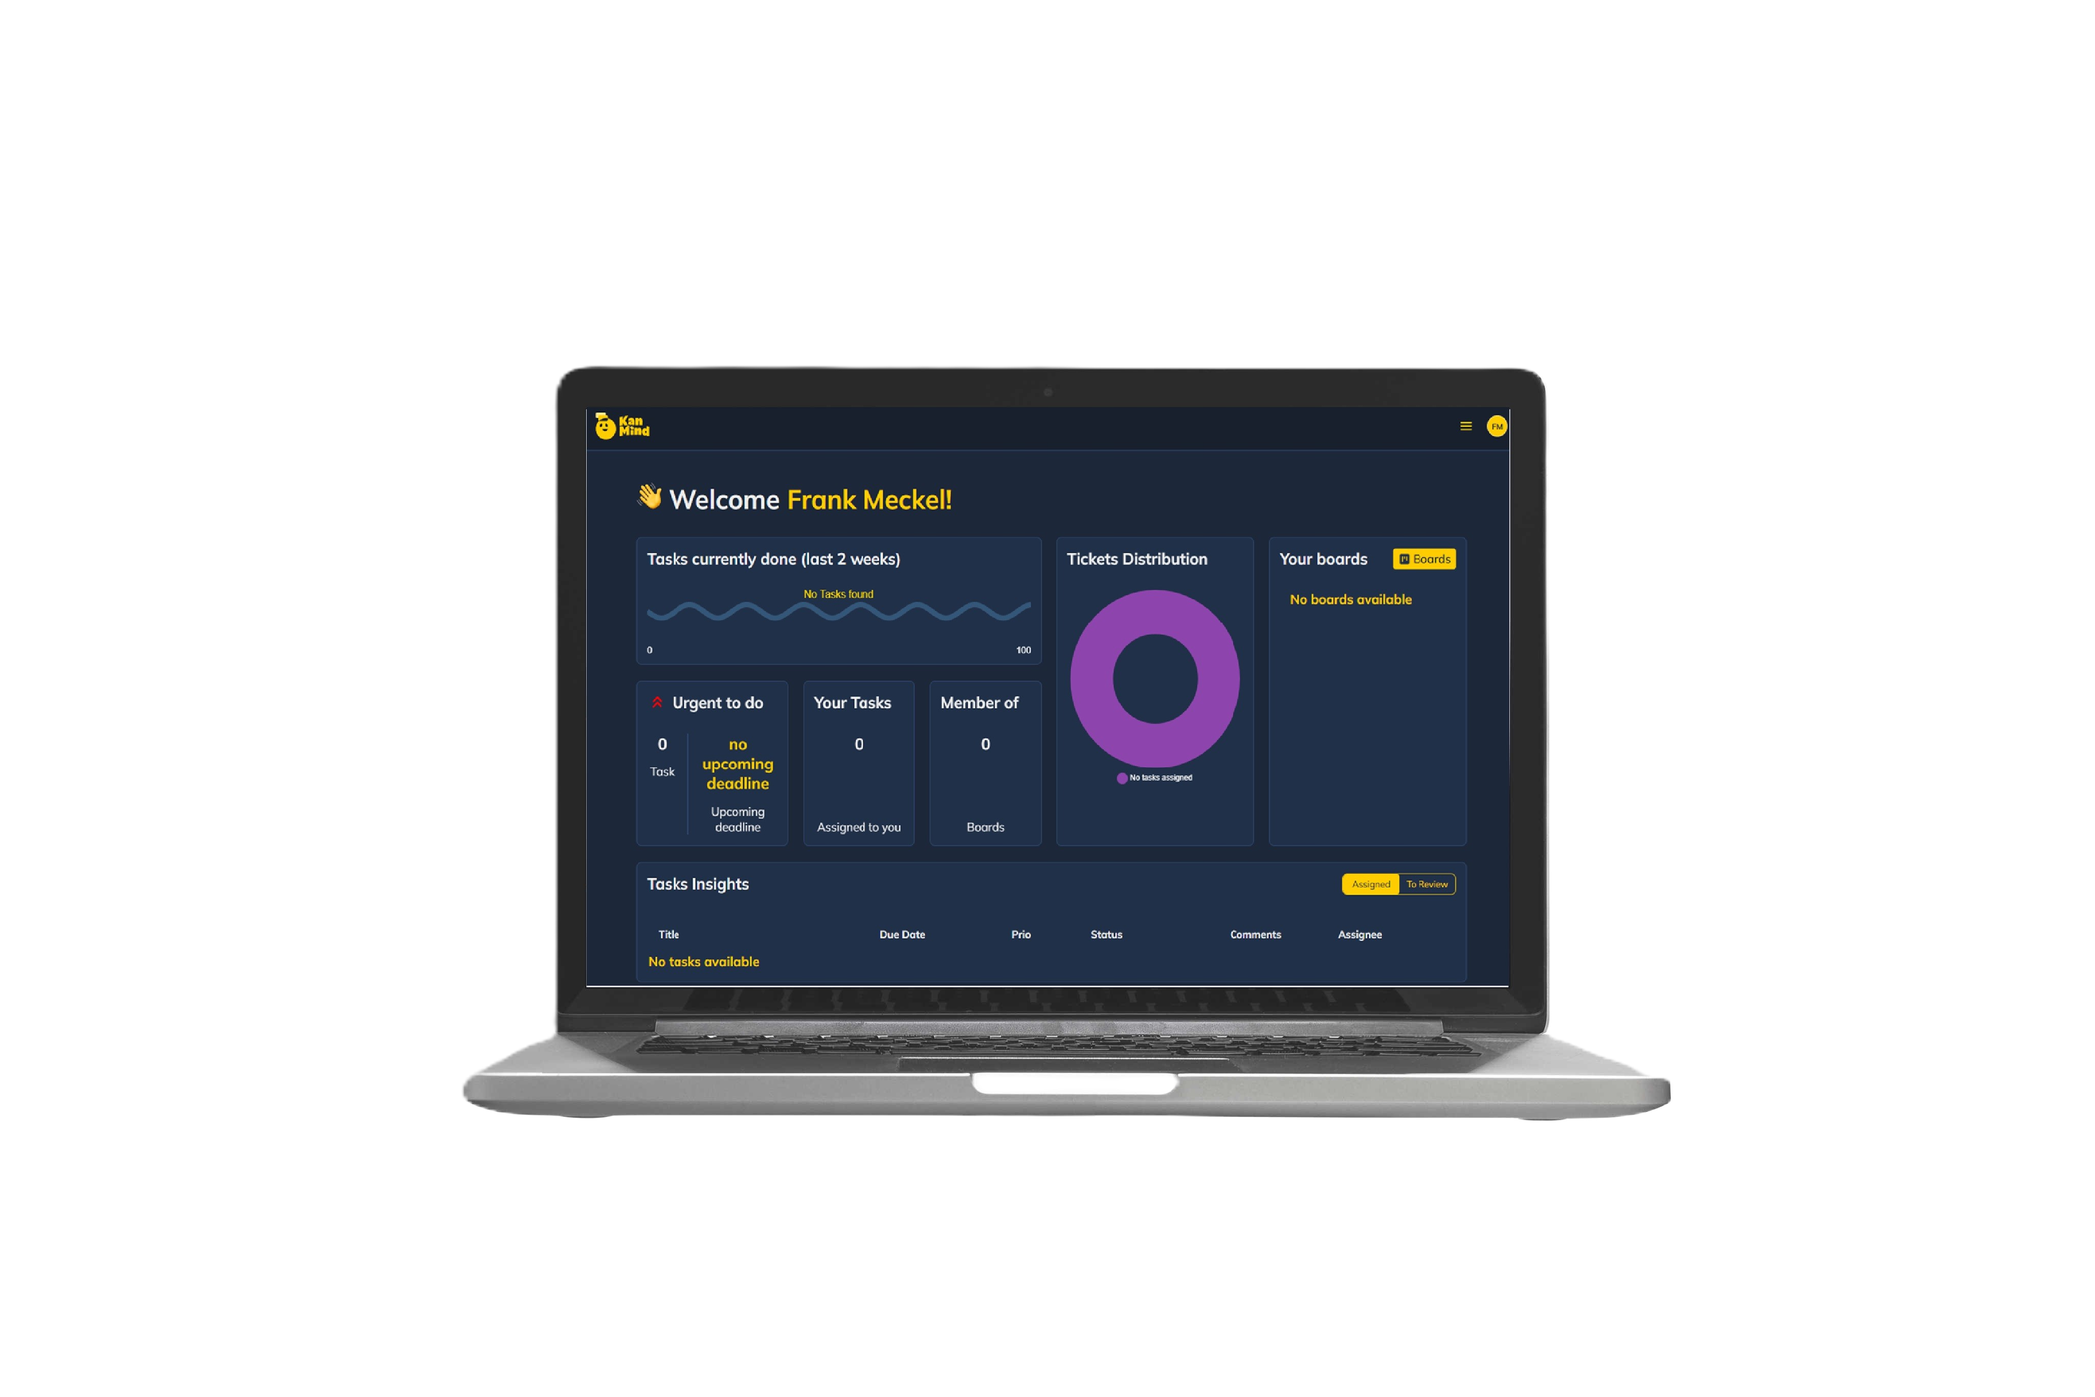
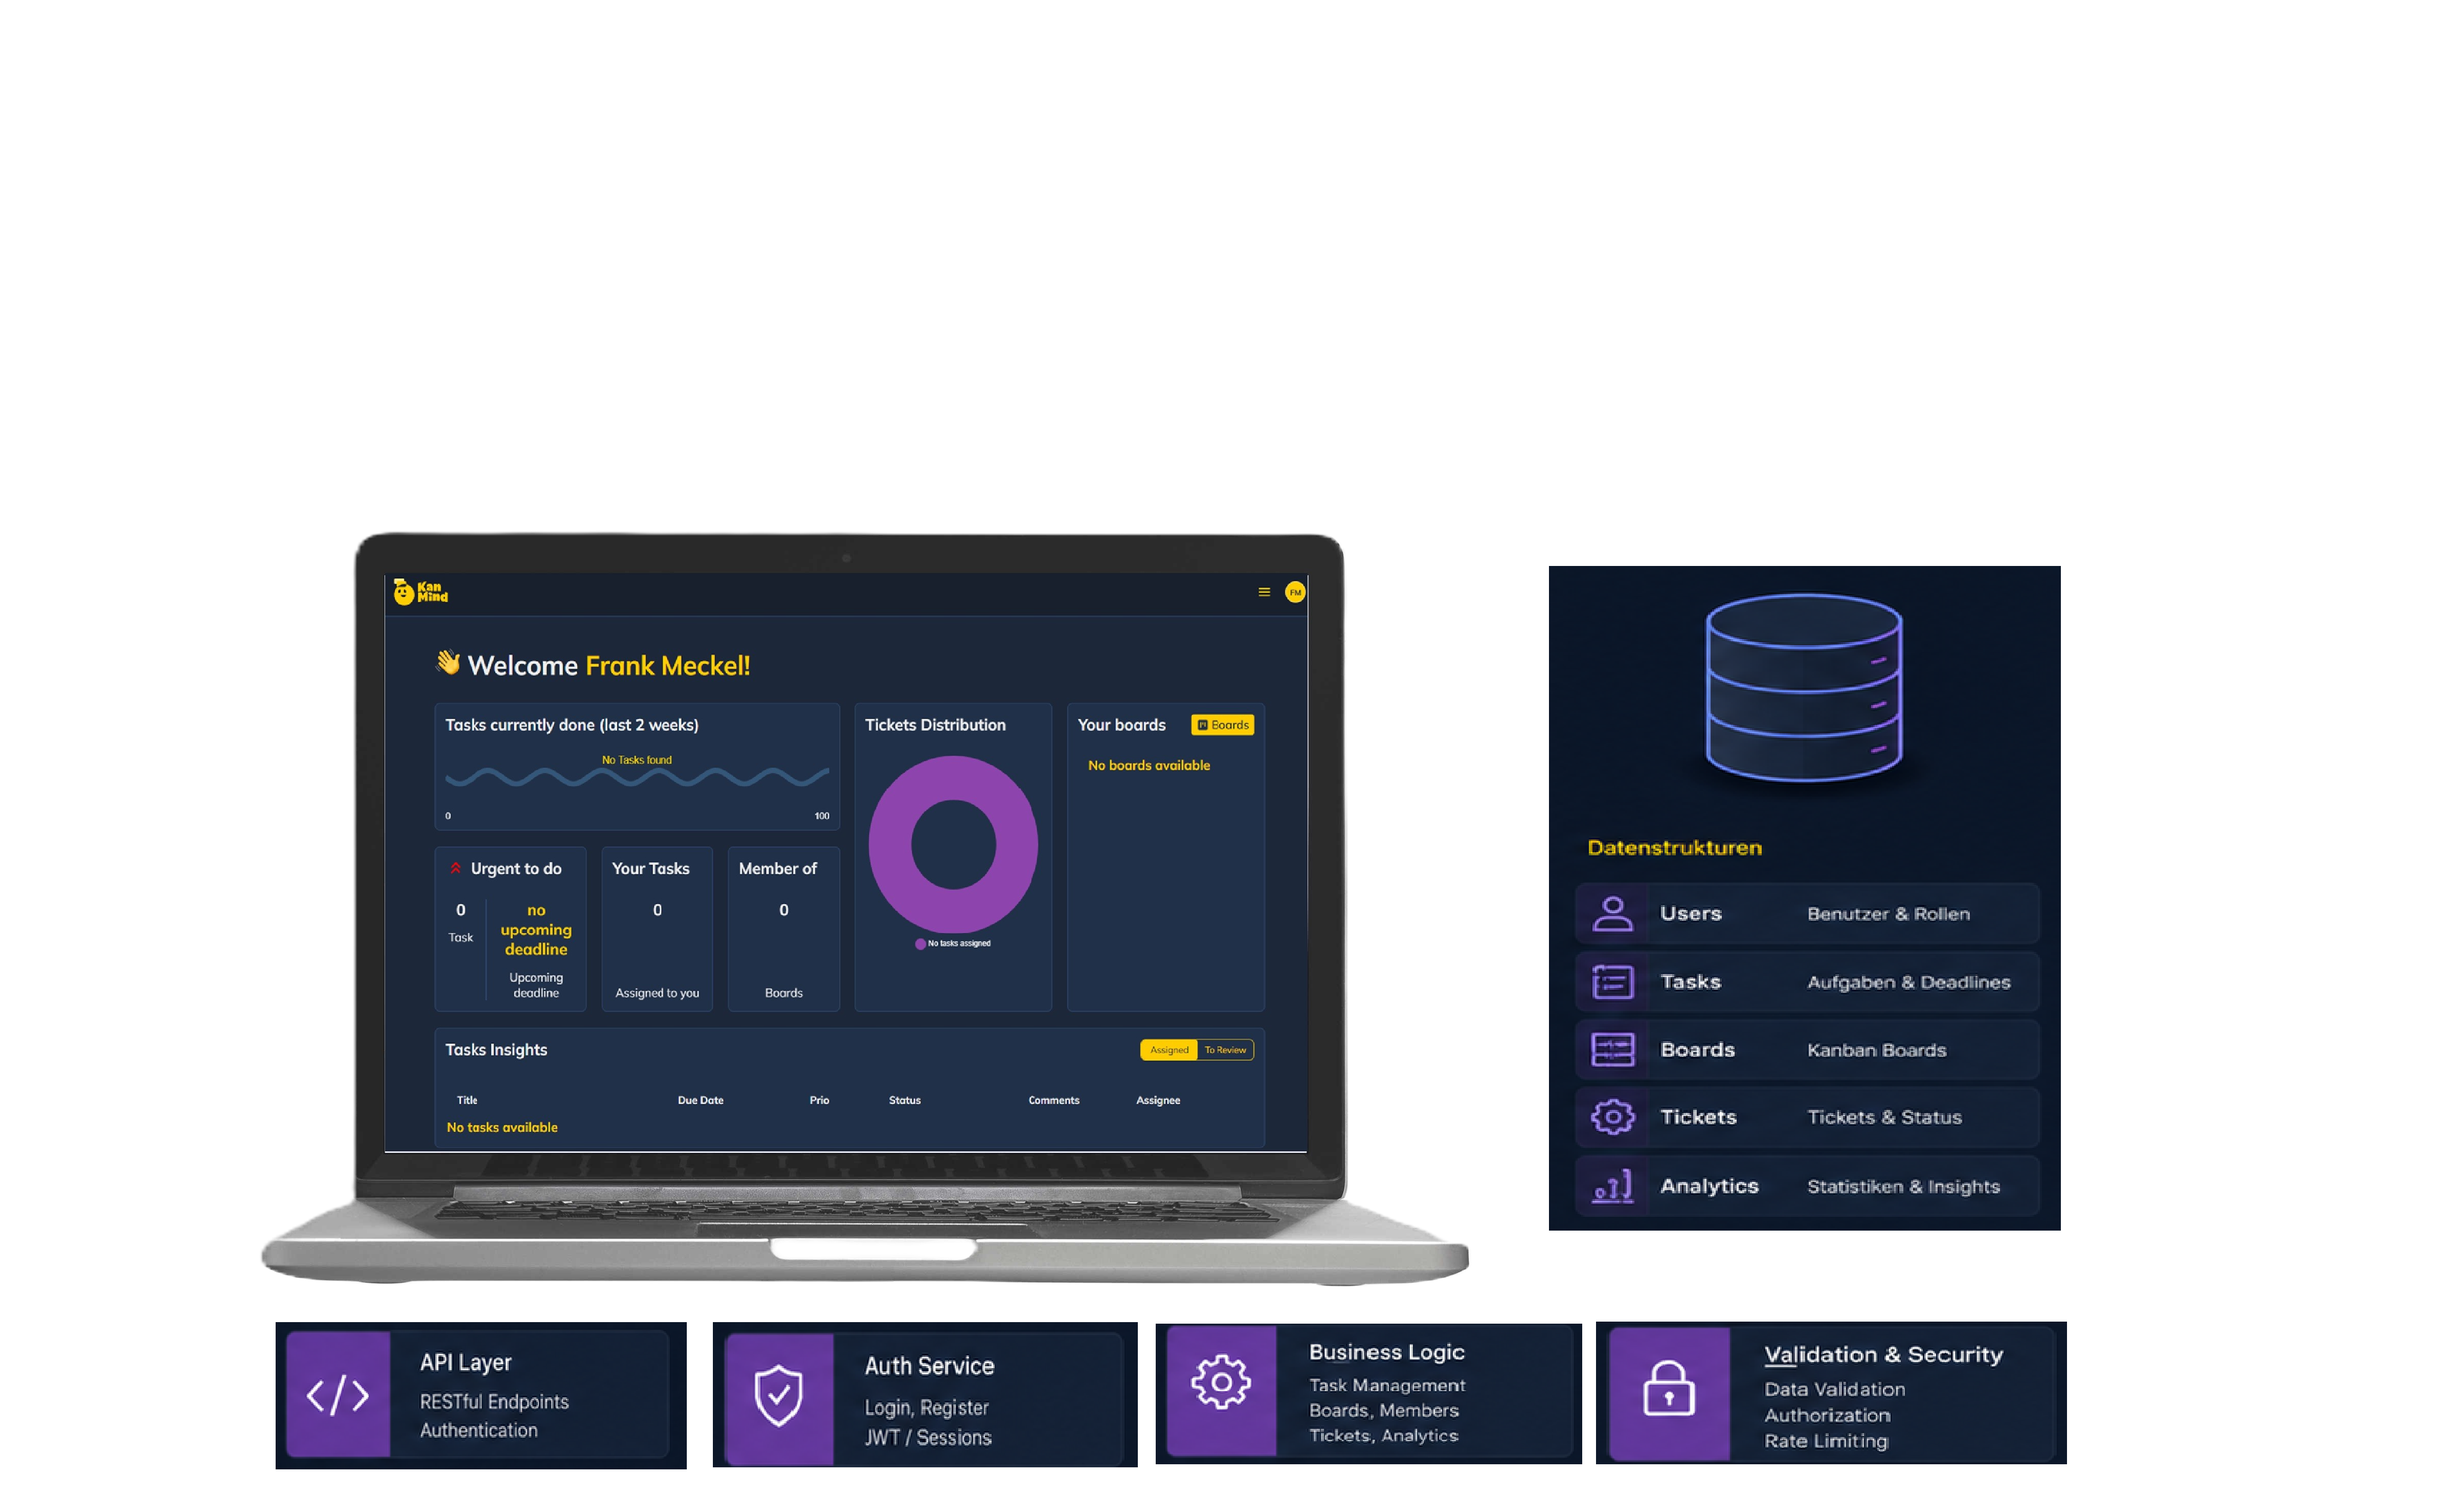
coderr added

diff --git a/src/app/shared/services/language.service.ts b/src/app/shared/services/language.service.ts
@@ -160,6 +160,7 @@ export class LanguageService {
       Projects: [
         {
           title: 'Join',
+          area: '(Frontend Development)',
           skills: {
             EN: 'Angular | TypeScript | HTML | CSS | Firebase ',
             DE: 'Angular | TypeScript | HTML | CSS | Firebase .'
@@ -171,6 +172,7 @@ export class LanguageService {
         },
         {
           title: 'El Pollo Loco',
+          area: '(Frontend Development)',
           skills: { EN: 'JavaScript | HTML | CSS', DE: 'JavaScript | HTML | CSS' },
           description: {
             EN: 'An exciting action game where a Mexican hero collects coins and bottles, avoids obstacles, and fights the final boss to defeat him.',
@@ -179,6 +181,7 @@ export class LanguageService {
         },
         {
           title: 'Simple CRM',
+          area: '(Frontend Development)',
           skills: { EN: 'Angular | Firebase', DE: 'Angular | Firebase' },
           description: {
             EN: 'A very Simple Customer Relationship Management system working with CRUD functionality',
@@ -187,6 +190,7 @@ export class LanguageService {
         },
         {
           title: 'Pokédex',
+          area: '(Frontend Development)',
           skills: { EN: 'JavaScript | HTML | CSS | Api', DE: 'JavaScript | HTML | CSS | Api' },
           description: {
             EN: 'Based on the PokéAPI a simple library that provides and catalogues pokemon information.',
@@ -195,6 +199,7 @@ export class LanguageService {
         },
         {
           title: 'Kanmind',
+          area: '(Backend Development)',
           skills: { EN: 'Python | DRF | Django | Linux', DE: 'Python | DRF | Django | Linux' },
           description: {
             EN: `A task management app built with Django REST Framework. The backend was implemented based on a provided API specification;
@@ -205,7 +210,23 @@ export class LanguageService {
               das Frontend wurde von der Developer Akademie bereitgestellt.
               Die Anwendung ist auf einem selbst gehosteten Raspberry Pi Server deployed und zeigt praktische Erfahrung in Backend-Entwicklung,
               API-Integration, Deployment sowie grundlegenden DevOps-Kenntnissen.`         },
+        },
+        {
+          title: 'Coderr',
+          area: '(Backend Development)',
+          skills: { EN: 'Python | DRF | Django | Linux', DE: 'Python | DRF | Django | Linux' },
+          description: {
+            EN: `The program provides a platform where users can register, log in, and manage their profiles. Business users can create, edit, 
+                and manage offers, while customers can browse offers, place orders, and submit reviews. The API provides all necessary functions 
+                for authentication, user management, offers, orders, reviews, and platform statistics through various endpoints.`,
+            DE: `Das Programm bietet eine Plattform, auf der sich Nutzer registrieren, anmelden und ihre Profile verwalten können. Geschäftskunden können 
+                Angebote erstellen, bearbeiten und verwalten, während Kunden Angebote durchstöbern, Bestellungen aufgeben und Bewertungen abgeben können.
+                Die API stellt über verschiedene Endpunkte alle erforderlichen Funktionen für Authentifizierung, Benutzerverwaltung, Angebote, Bestellungen, Bewertungen und Plattformstatistiken bereit.`         },
         }
+
+
+
+
       ],
       // Teamfeedback separat als eigene Variable
       TeamFeedBacks: [

diff --git a/src/app/main/myportfolio/portfolios/portfolios.html b/src/app/main/myportfolio/portfolios/portfolios.html
@@ -1,20 +1,15 @@
 <div class="portfolio_item" [ngClass]="{'reverse': reverseLayout}">
 
   <div class="portfolio_image">
-   <img 
-      [src]="imageUrl" 
-      [alt]="project.title"
-      [attr.data-aos]="reverseLayout ? 'fade-left' : 'fade-right'"
-      data-aos-duration="1000"
-      data-aos-easing="ease-out-cubic"
-      data-aos-offset="150"
-      data-aos-once="false"
-      data-aos-anchor-placement="top-bottom"
-    />
+    <img [src]="imageUrl" [alt]="project.title" [attr.data-aos]="reverseLayout ? 'fade-left' : 'fade-right'"
+      data-aos-duration="1000" data-aos-easing="ease-out-cubic" data-aos-offset="150" data-aos-once="false"
+      data-aos-anchor-placement="top-bottom" />
   </div>
 
   <div class="portfolio_text">
-    <h3 class="txt_project">{{ project.title }}</h3>
+    <h3 class="txt_project">
+      {{ project.title }} <span class="title_area">{{ project.area }}</span>
+    </h3>
     <p class="txt_project_skills">{{ project.skills[langService.currentLang] }}</p>
     <p class="txt_project_discription">{{ project.description[langService.currentLang] }}</p>
 

diff --git a/src/app/main/myportfolio/portfolios/portfolios.ts b/src/app/main/myportfolio/portfolios/portfolios.ts
@@ -55,7 +55,10 @@ export class PortfoliosComponent implements OnInit, AfterViewInit {
     'El Pollo Loco': { imageUrl: 'assets/img/elpolloloco.webp', liveUrl: 'http://elpolloloco.frank-meckel.de/index.html', githubUrl: 'https://github.com/Frank-Meck/El-Pollo-Loco.git' },
     'Simple CRM': { imageUrl: 'assets/img/SimpleCRM.webp', liveUrl: '', githubUrl: '' },
     'Pokédex': { imageUrl: 'assets/img/pokedex.webp', liveUrl: 'http://pokedex.frank-meckel.de/index.html', githubUrl: 'https://github.com/Frank-Meck/Pokedex.git' },
-    'Kanmind': { imageUrl: 'assets/img/Kanmind.png', liveUrl: 'https://kanmind.frank-meckel.de', githubUrl: 'https://github.com/Frank-Meck/Backend_Kanmind.git' }
+    'Kanmind': { imageUrl: 'assets/img/Kanmind.png', liveUrl: 'https://kanmind.frank-meckel.de', githubUrl: 'https://github.com/Frank-Meck/Backend_Kanmind.git' },
+    'Coderr': { imageUrl: 'assets/img/coderr.png', liveUrl: 'https://coderr.frank-meckel.de', githubUrl: 'https://github.com/Frank-Meck/coderr-backend.git' }
+  
+  
   };
 
   /**

diff --git a/src/app/main/myportfolio/portfolios/portfolios.scss b/src/app/main/myportfolio/portfolios/portfolios.scss
@@ -28,11 +28,21 @@
     margin-top: 75px;
 
 
+
     .txt_project {
       @include v.text_project;
       margin-top: 30px;
     }
 
+    .title_area {
+      color: #b8b8b8;
+      margin-left: 12px;
+      font-size: 0.85em;
+      letter-spacing: 0.5px;
+      font-style: italic;
+      font-weight: 400;
+      /* oder normal */
+    }
 
     .txt_project_skills {
       @include v.text_project_skills;
